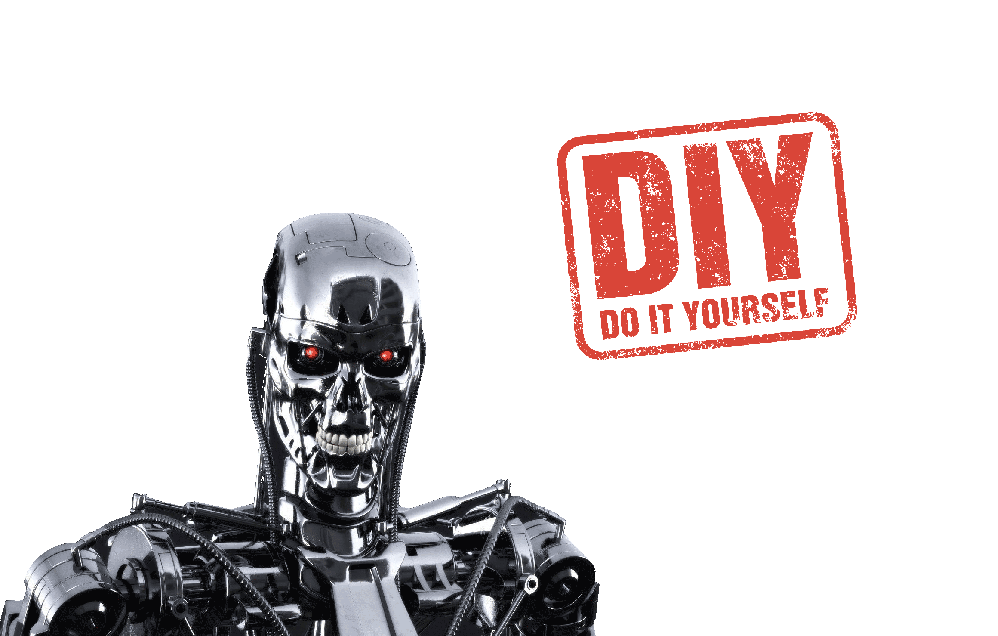
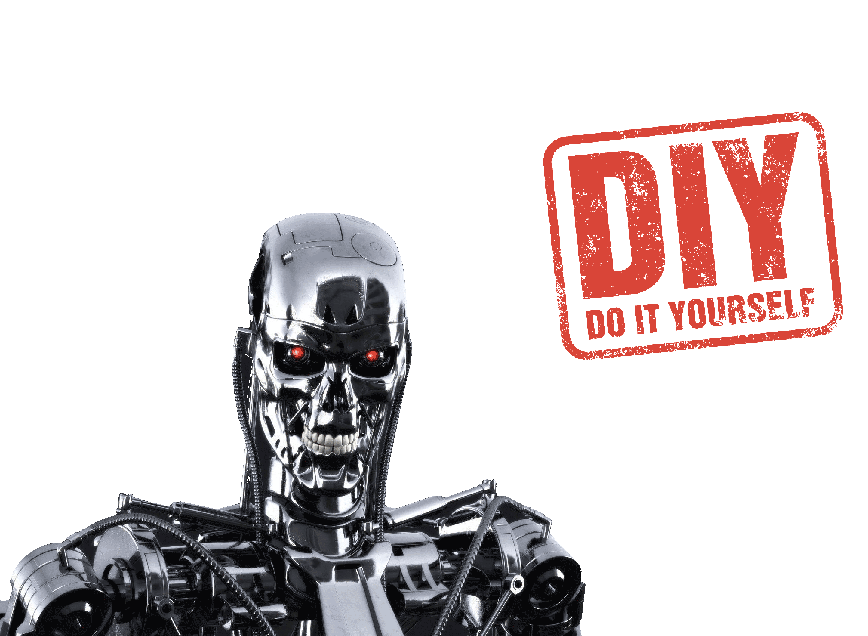
[UPDATE] project configurations

Changed region(s): [[0.0, 0.3286, 0.6843, 1.0], [0.5599, 0.1792, 0.9954, 0.5676]]

diff --git a/index.html b/index.html
@@ -15,34 +15,38 @@
 <body>
 
 <article class="kontext">
-    <di class="layer one show" style="background: #000">
-        <h2></h2>
-        <img src="skynet.png" alt="Do it yourself!"/>
-    </di>
-
-    <div class="layer two" style="background: #043263; top:0%">
-        <h2>Come with me if you want to live…</h2>
-        <h2 style="margin-top: 100px;font-size: 2.25em">-Do the governance stuff-</h2>
+    <div class="layer one show" style="background: #000">
+        <img src="skynet.png" alt="Do it yourself!" style="display: block;margin-top: 20%;margin-left: auto;margin-right: auto;width: 100%;align:bottom;vertical-align: bottom;"/>
     </div>
-    <div class="layer three" style="background: #2881d0d4; top:0%">
-        <h2>I need your clothes, your boots, and your motorcycle</h2>
-        <h2 style="margin-top: 100px;font-size: 2.25em">-Initialize your files-</h2>
+    <div class="layer two" style="background: #043263">
+        <h2 style="font-size: 400%;top: 10%">Come with me</h2>
+        <h2 style="font-size: 400%;top: 10%">if you want</h2>
+        <h2 style="font-size: 400%;top: 10%">to live…</h2>
+        <h2 style="top: 20%;font-size: 2.00em;font-style: italic;font-family: Courier New,Courier,Lucida Sans Typewriter,Lucida Typewriter,monospace">-Do the governance stuff-</h2>
     </div>
-    <div class="layer four" style="background: #1ca8e6; top:0%">
-        <h2>I don’t know how much longer I can hold this…</h2>
-        <h2 style="margin-top: 100px;font-size: 2.25em">-Execute and test in your local machine-</h2>
+    <div class="layer three" style="background: #2881d0d4">
+        <h2 style="font-size: 355%;top: 10%">I need your clothes</h2>
+        <h2 style="font-size: 355%;top: 10%">your boots and</h2>
+        <h2 style="font-size: 355%;top: 10%">your motorcycle</h2>
+        <h2 style="top: 20%;font-size: 2.00em;font-style: italic;font-family: Courier New,Courier,Lucida Sans Typewriter,Lucida Typewriter,monospace">-Initialize your files-</h2>
     </div>
-    <div class="layer five" style="background: #19a6a5; top:0%">
-        <h2>I like this car</h2>
-        <h2 style="margin-top: 100px;font-size: 2.25em">-If everything is alright, deploy it-</h2>
+    <div class="layer four" style="background: #1ca8e6">
+        <h2 style="font-size: 400%;top: 10%">I don’t know</h2>
+        <h2 style="font-size: 400%;top: 10%">how much longer</h2>
+        <h2 style="font-size: 400%;top: 10%">I can hold this…</h2>
+        <h2 style="top: 20%;font-size: 2.00em;font-style: italic;font-family: Courier New,Courier,Lucida Sans Typewriter,Lucida Typewriter,monospace">-Execute and test in your local machine-</h2>
     </div>
-    <div class="layer six" style="background: #2dcccd; top:0%">
-        <h2>You are terminated</h2>
-        <h2 style="margin-top: 100px;font-size: 2.25em">-Try it out in Work environment-</h2>
+    <div class="layer five" style="background: #19a6a5">
+        <h2 style="font-size: 500%">I like this car</h2>
+        <h2 style="font-size: 2.00em;font-style: italic;font-family: Courier New,Courier,Lucida Sans Typewriter,Lucida Typewriter,monospace">-If everything is alright, deploy it-</h2>
+    </div>
+    <div class="layer six" style="background: #2dcccd">
+        <h2 style="font-size: 500%">You are terminated</h2>
+        <h2 style="font-size: 2.00em;font-style: italic;font-family: Courier New,Courier,Lucida Sans Typewriter,Lucida Typewriter,monospace">-Try it out in Work environment-</h2>
     </div>
     <div class="layer seven" style="background: #ffffff">
         <img src="terminator.png" alt="Hasta la vista, baby"/>
-        <h2 style="color: #000; top: 0%">Hasta la vista, baby</h2>
+        <h2 style="color: #000; top: 0%;font-size: 400%">Hasta la vista, baby</h2>
     </div>
 </article>
 
